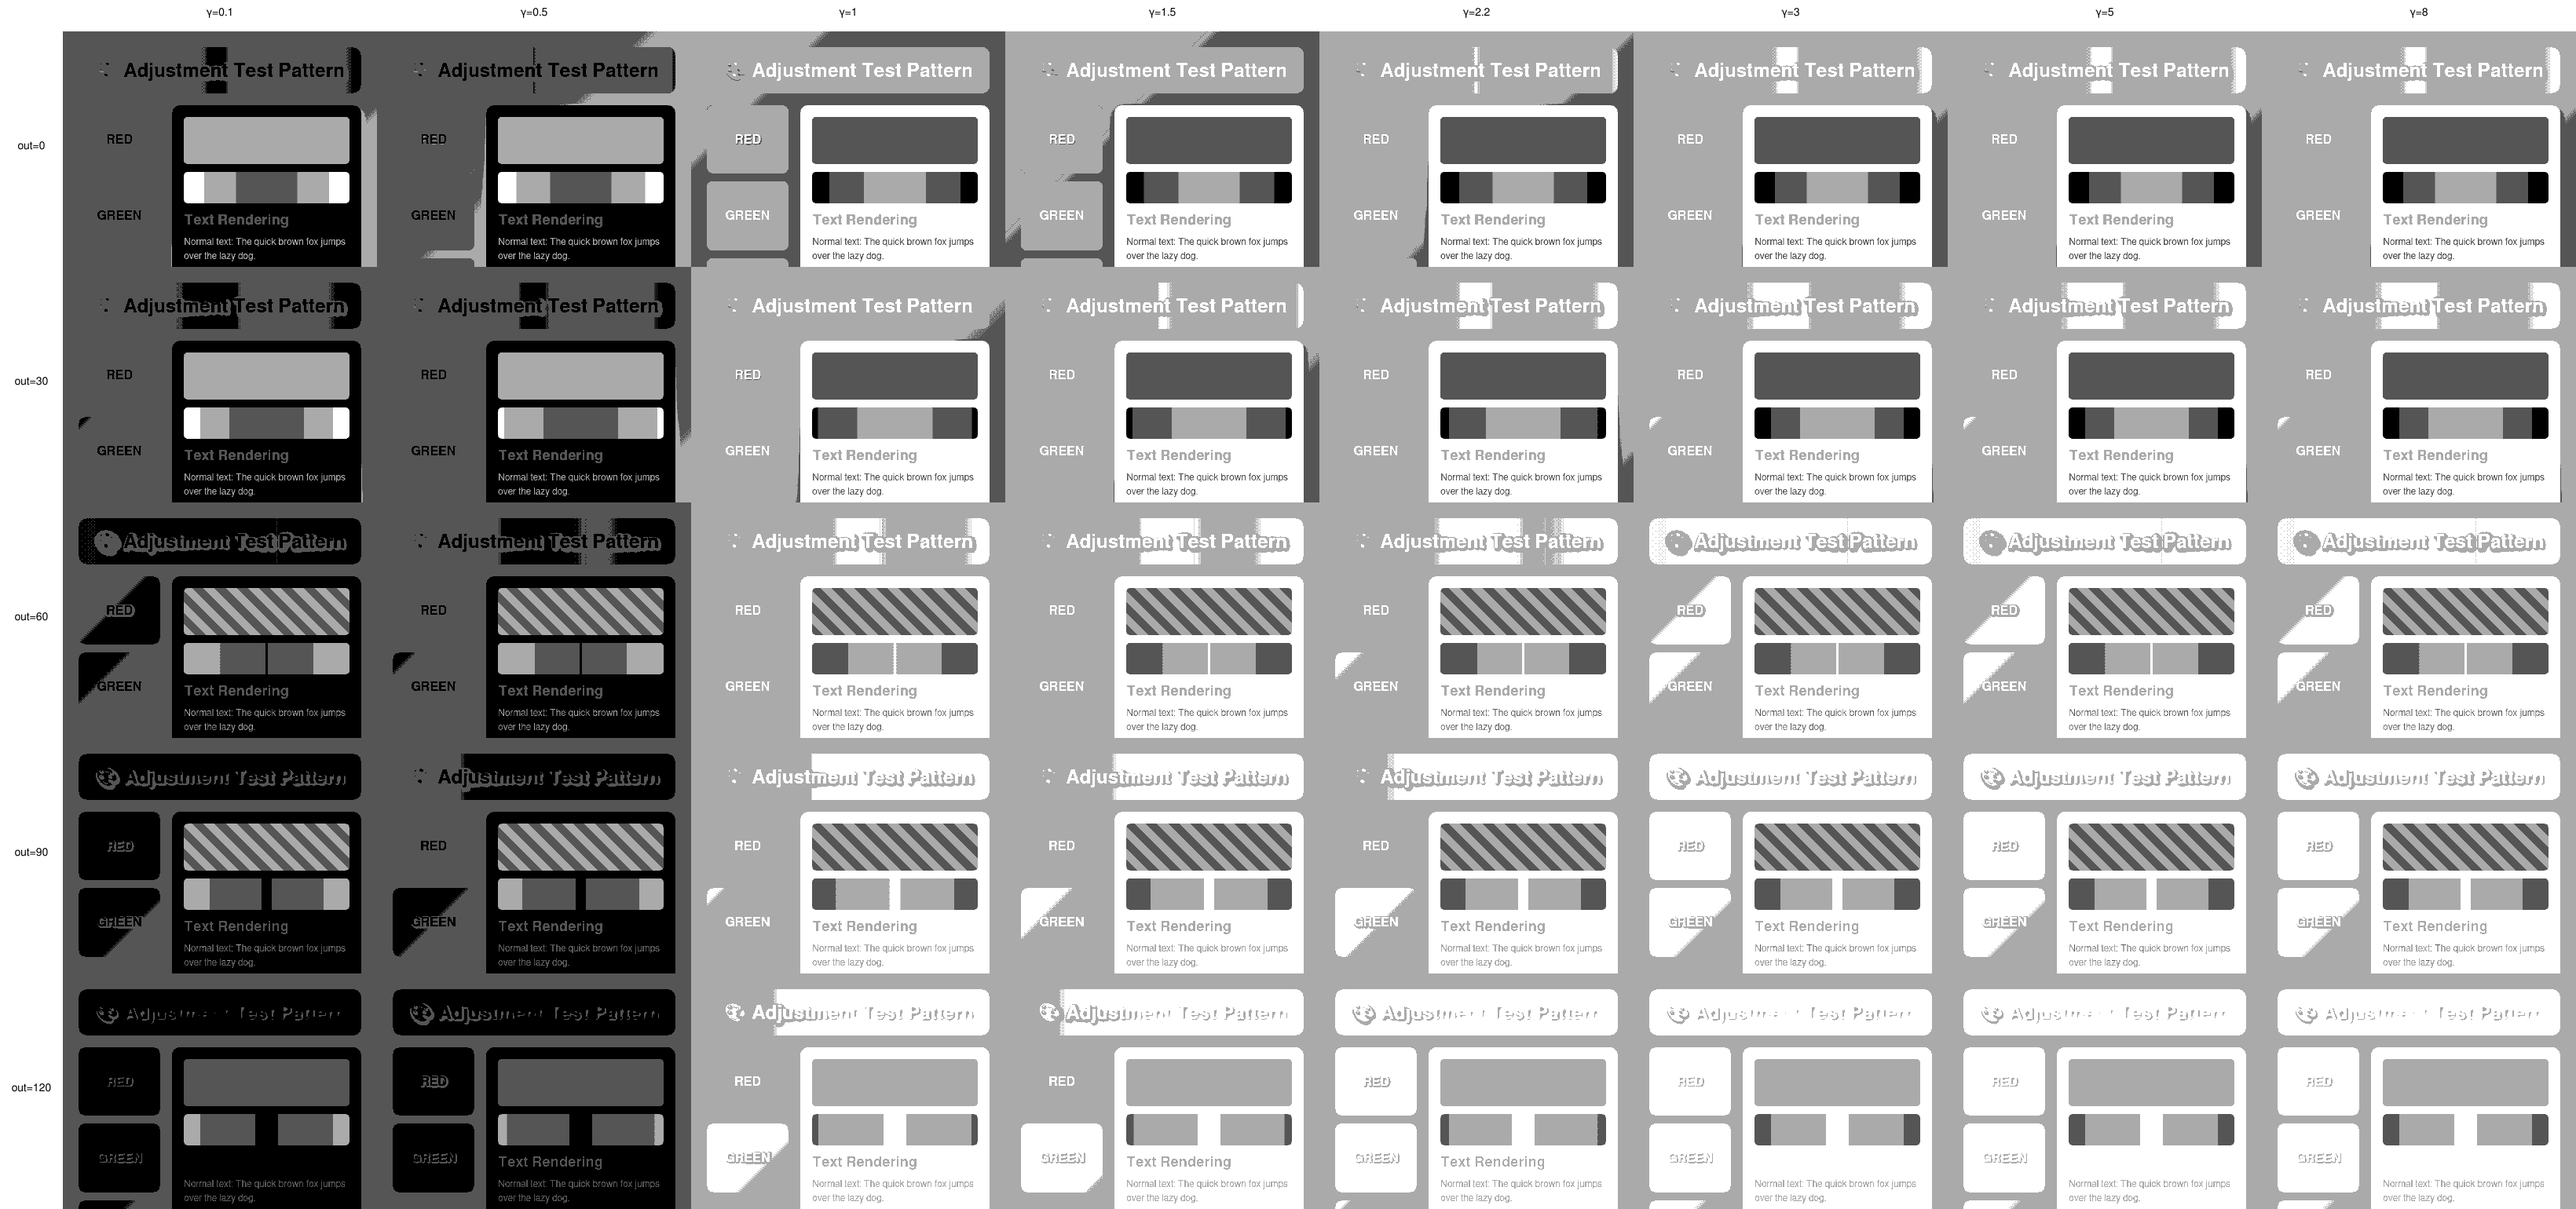
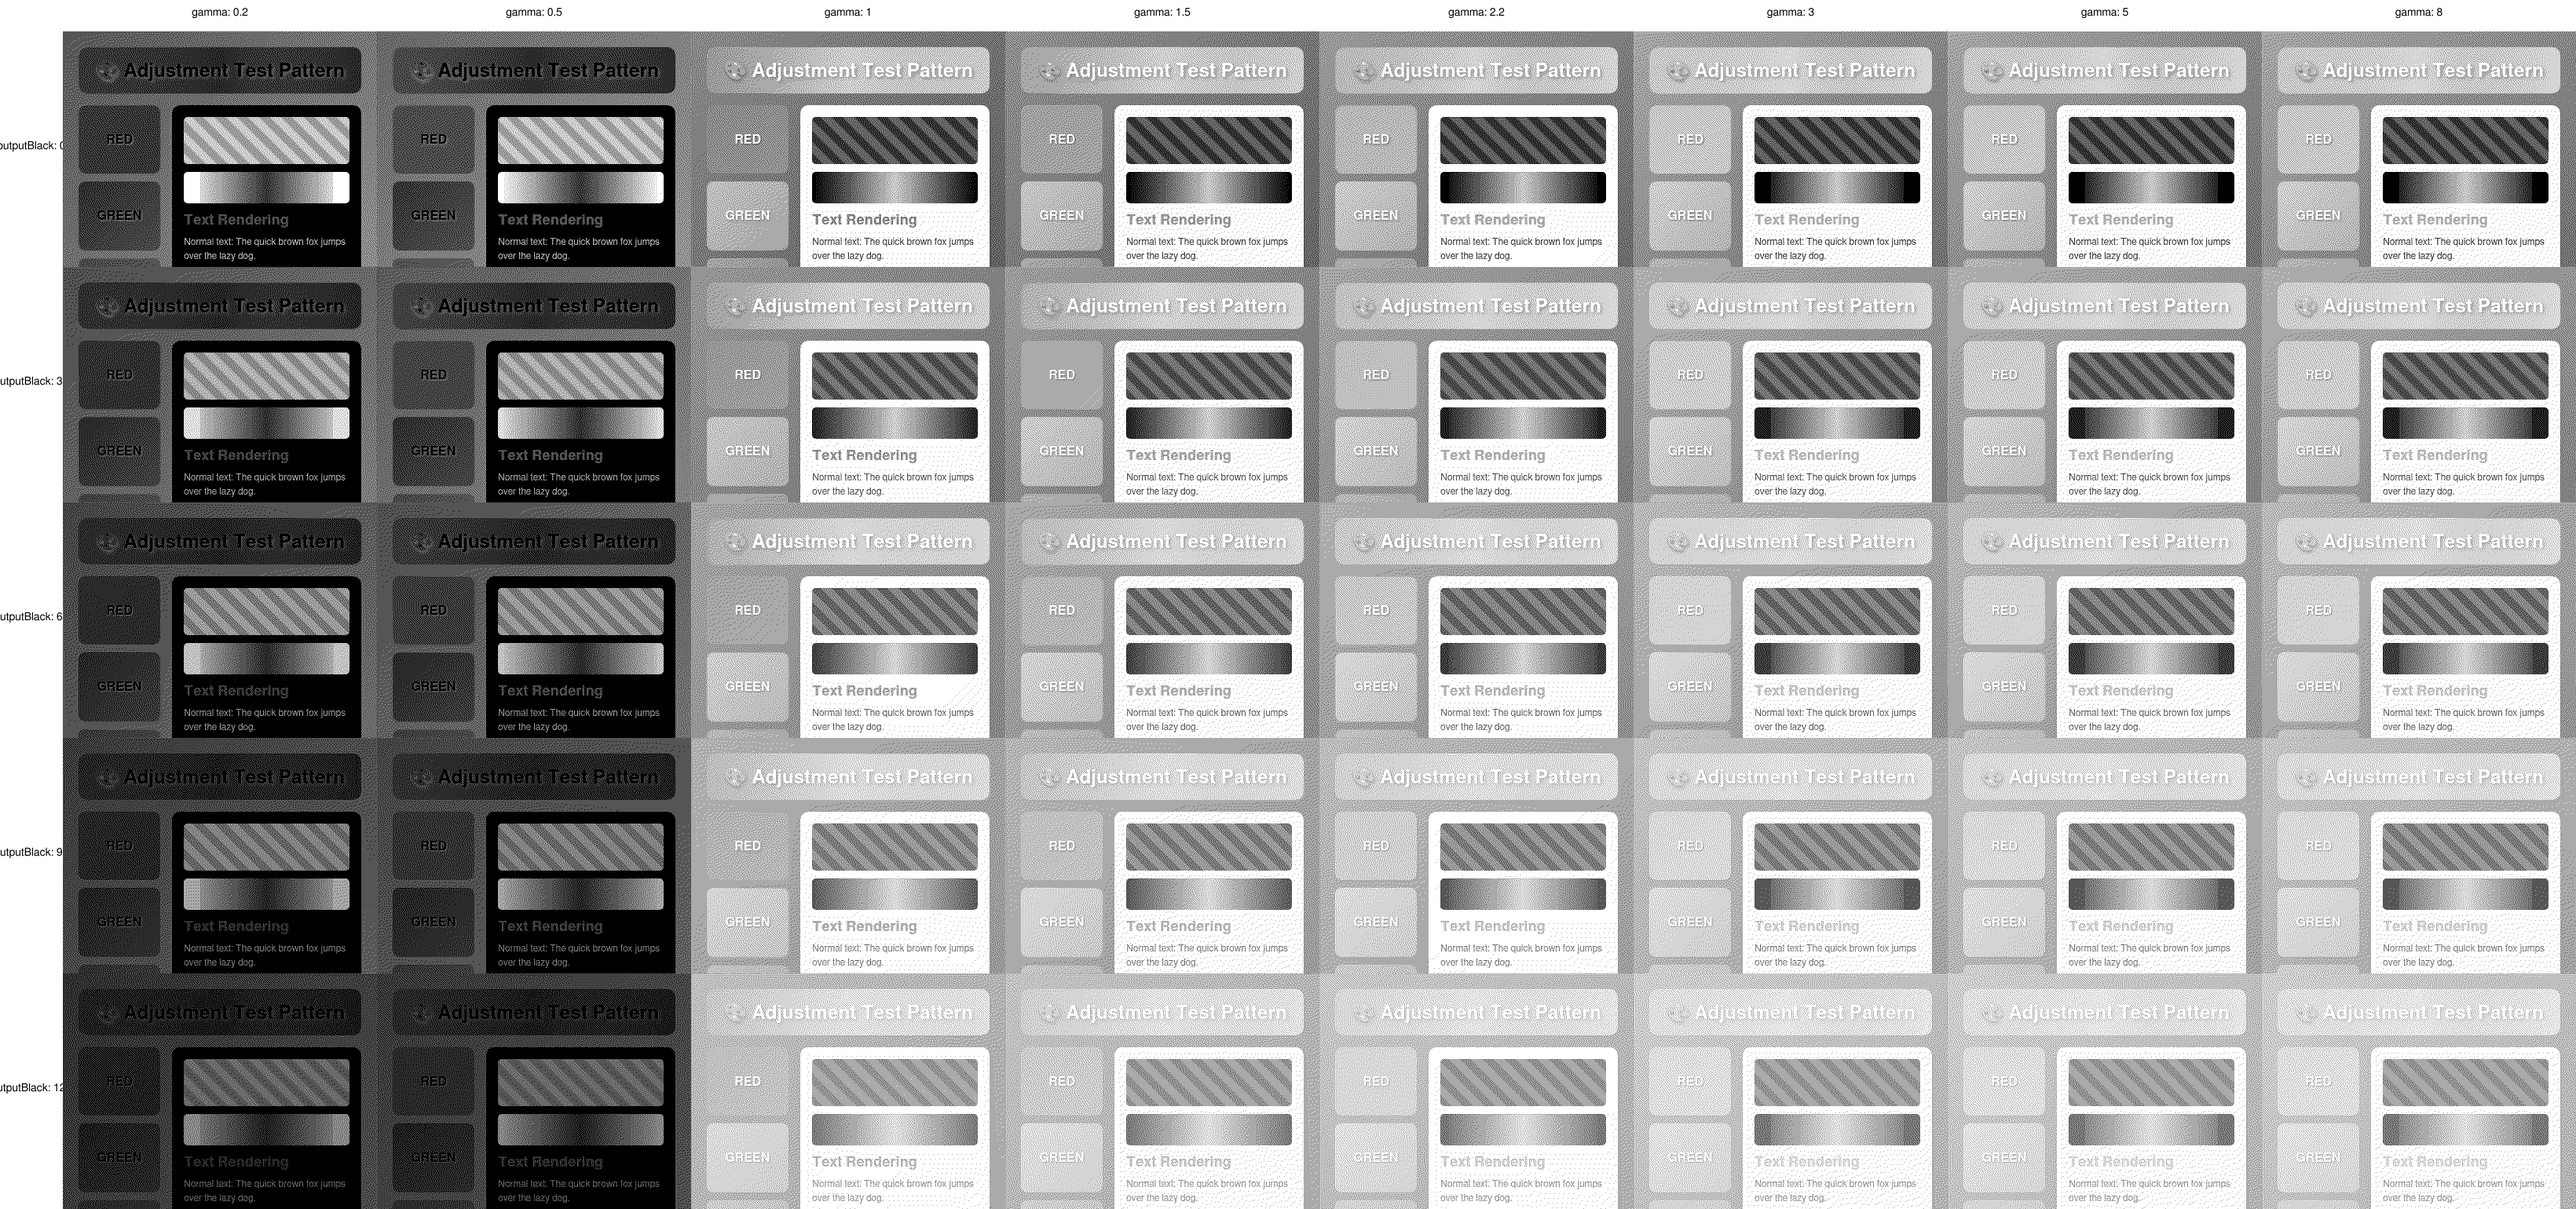
Refine levels adjustment matrix generation
- Updated gamma distribution from [0.1, 0.5, ...] to [0.2, 0.5, ...] for better visual distinction
- Added dithering to grayscale matrices for e-ink simulation
- Updated matrix labels to use proper JSON field names (gamma, outputBlack, inputWhite, inputBlack)
- Removed input range matrices (not adding value to documentation)
- Regenerated gamma × outputBlack matrices with improvements
- Updated IMAGE-ADJUSTMENTS.md to reflect changes

Changed region(s): [[0.0, 0.0, 1.0, 1.0]]

diff --git a/calendar2image/tests/matrix/adjustment-levels-matrix.test.js b/calendar2image/tests/matrix/adjustment-levels-matrix.test.js
@@ -4,8 +4,6 @@
  * Generates visual comparison matrices specifically for the levels adjustment feature:
  * - Gamma vs Output Black matrix (grayscale 2-bit e-ink simulation)
  * - Gamma vs Output Black matrix (color 8-bit)
- * - Input Range matrix (grayscale 2-bit)
- * - Input Range matrix (color 8-bit)
  */
 
 const { generateImage } = require('../../src/image');
@@ -42,6 +40,16 @@ async function generateLevelsImage(levelsConfig, imageConfig) {
     extraData: {}
   });
   
+  // Build adjustments object
+  const adjustments = {
+    levels: levelsConfig
+  };
+  
+  // Add dithering for grayscale matrices
+  if (imageConfig.grayscale) {
+    adjustments.dither = true;
+  }
+  
   // Generate image with levels adjustment
   const result = await generateImage(html, {
     width: config.width,
@@ -49,9 +57,7 @@ async function generateLevelsImage(levelsConfig, imageConfig) {
     imageType: config.format,
     grayscale: config.grayscale,
     bitDepth: config.bitDepth,
-    adjustments: {
-      levels: levelsConfig
-    }
+    adjustments
   });
   
   return result.buffer;
@@ -82,7 +88,7 @@ async function createLabelImage(text, width, height) {
 async function generateGammaOutputMatrix(imageConfig, matrixName) {
   console.log(`\n📊 Generating ${matrixName} matrix...`);
   
-  const gammaValues = [0.1, 0.5, 1.0, 1.5, 2.2, 3.0, 5.0, 8.0];
+  const gammaValues = [0.2, 0.5, 1.0, 1.5, 2.2, 3.0, 5.0, 8.0];
   const outputBlackValues = [0, 30, 60, 90, 120];
   
   const cellWidth = BASE_CONFIG.width;
@@ -99,7 +105,7 @@ async function generateGammaOutputMatrix(imageConfig, matrixName) {
   // Add column headers (gamma values)
   for (let col = 0; col < gammaValues.length; col++) {
     const gamma = gammaValues[col];
-    const label = await createLabelImage(`γ=${gamma}`, cellWidth, labelHeight);
+    const label = await createLabelImage(`gamma: ${gamma}`, cellWidth, labelHeight);
     compositeOps.push({
       input: label,
       top: 0,
@@ -110,7 +116,7 @@ async function generateGammaOutputMatrix(imageConfig, matrixName) {
   // Add row headers (output black values)
   for (let row = 0; row < outputBlackValues.length; row++) {
     const outputBlack = outputBlackValues[row];
-    const label = await createLabelImage(`out=${outputBlack}`, labelWidth, cellHeight);
+    const label = await createLabelImage(`outputBlack: ${outputBlack}`, labelWidth, cellHeight);
     compositeOps.push({
       input: label,
       top: labelHeight + (row * cellHeight),
@@ -135,97 +141,6 @@ async function generateGammaOutputMatrix(imageConfig, matrixName) {
         inputWhite: 255,
         gamma: gamma,
         outputBlack: outputBlack,
-        outputWhite: 255
-      }, imageConfig);
-      
-      compositeOps.push({
-        input: imageBuffer,
-        top: labelHeight + (row * cellHeight),
-        left: labelWidth + (col * cellWidth)
-      });
-    }
-  }
-  
-  // Create base white image
-  const matrix = await sharp({
-    create: {
-      width: totalWidth,
-      height: totalHeight,
-      channels: 3,
-      background: { r: 255, g: 255, b: 255 }
-    }
-  })
-  .composite(compositeOps)
-  .png()
-  .toBuffer();
-  
-  // Save matrix
-  const outputPath = path.join(MATRIX_OUTPUT_DIR, `${matrixName}.png`);
-  await fs.writeFile(outputPath, matrix);
-  console.log(`✅ Saved: ${outputPath}`);
-  
-  return outputPath;
-}
-
-/**
- * Generate input range matrix
- */
-async function generateInputRangeMatrix(imageConfig, matrixName) {
-  console.log(`\n📊 Generating ${matrixName} matrix...`);
-  
-  const inputWhiteValues = [128, 160, 192, 224, 255];
-  const inputBlackValues = [0, 32, 64, 96, 128];
-  
-  const cellWidth = BASE_CONFIG.width;
-  const cellHeight = BASE_CONFIG.height;
-  const labelWidth = 80;
-  const labelHeight = 40;
-  
-  const totalWidth = labelWidth + (cellWidth * inputWhiteValues.length);
-  const totalHeight = labelHeight + (cellHeight * inputBlackValues.length);
-  
-  // Create composite image
-  const compositeOps = [];
-  
-  // Add column headers (input white values)
-  for (let col = 0; col < inputWhiteValues.length; col++) {
-    const inputWhite = inputWhiteValues[col];
-    const label = await createLabelImage(`in↑=${inputWhite}`, cellWidth, labelHeight);
-    compositeOps.push({
-      input: label,
-      top: 0,
-      left: labelWidth + (col * cellWidth)
-    });
-  }
-  
-  // Add row headers (input black values)
-  for (let row = 0; row < inputBlackValues.length; row++) {
-    const inputBlack = inputBlackValues[row];
-    const label = await createLabelImage(`in↓=${inputBlack}`, labelWidth, cellHeight);
-    compositeOps.push({
-      input: label,
-      top: labelHeight + (row * cellHeight),
-      left: 0
-    });
-  }
-  
-  // Generate all cells
-  let cellCount = 0;
-  const totalCells = inputWhiteValues.length * inputBlackValues.length;
-  
-  for (let row = 0; row < inputBlackValues.length; row++) {
-    for (let col = 0; col < inputWhiteValues.length; col++) {
-      cellCount++;
-      const inputBlack = inputBlackValues[row];
-      const inputWhite = inputWhiteValues[col];
-      
-      console.log(`  Generating cell ${cellCount}/${totalCells}: inputBlack=${inputBlack}, inputWhite=${inputWhite}`);
-      
-      const imageBuffer = await generateLevelsImage({
-        inputBlack: inputBlack,
-        inputWhite: inputWhite,
-        gamma: 1.0,
-        outputBlack: 0,
         outputWhite: 255
       }, imageConfig);
       
@@ -287,28 +202,6 @@ describe('Levels Adjustment Matrix Generation', () => {
     const outputPath = await generateGammaOutputMatrix(
       { grayscale: false, bitDepth: 8 },
       'levels-gamma-output-color-8bit'
-    );
-    
-    // Verify file exists and has reasonable size
-    const stats = await fs.stat(outputPath);
-    expect(stats.size).toBeGreaterThan(100000);
-  });
-
-  test('should generate input range matrix (grayscale 2-bit)', async () => {
-    const outputPath = await generateInputRangeMatrix(
-      { grayscale: true, bitDepth: 2 },
-      'levels-input-range-grayscale-2bit'
-    );
-    
-    // Verify file exists and has reasonable size
-    const stats = await fs.stat(outputPath);
-    expect(stats.size).toBeGreaterThan(100000);
-  });
-
-  test('should generate input range matrix (color 8-bit)', async () => {
-    const outputPath = await generateInputRangeMatrix(
-      { grayscale: false, bitDepth: 8 },
-      'levels-input-range-color-8bit'
     );
     
     // Verify file exists and has reasonable size

diff --git a/calendar2image/docs-user/IMAGE-ADJUSTMENTS.md b/calendar2image/docs-user/IMAGE-ADJUSTMENTS.md
@@ -266,25 +266,15 @@ This implementation exactly matches Paint.NET's Levels adjustment dialog:
 
 ![Paint.NET Levels Reference](https://github.com/user-attachments/assets/f3b3b494-9b57-4d90-b4d9-49277308501b)
 
-**Visual Reference - Gamma × Output Black Matrix**:
+**Visual Reference - Gamma × Output Black**:
 
-These matrices show how `gamma` and `outputBlack` parameters interact:
+These matrices show how `gamma` and `outputBlack` parameters interact to control mid-tone brightness and minimum output values:
 
 ![Levels Gamma × Output Black - Grayscale 2-bit](images/levels-gamma-output-grayscale-2bit.png)
-*E-ink simulation (2-bit grayscale) - 8 gamma values × 5 outputBlack values*
+*E-ink simulation (2-bit grayscale with dithering) - 8 gamma values × 5 outputBlack values*
 
 ![Levels Gamma × Output Black - Color 8-bit](images/levels-gamma-output-color-8bit.png)
 *Full color (8-bit) - 8 gamma values × 5 outputBlack values*
-
-**Visual Reference - Input Range Matrix**:
-
-These matrices show how `inputBlack` and `inputWhite` parameters compress/expand the input range:
-
-![Levels Input Range - Grayscale 2-bit](images/levels-input-range-grayscale-2bit.png)
-*E-ink simulation (2-bit grayscale) - 5 inputWhite values × 5 inputBlack values*
-
-![Levels Input Range - Color 8-bit](images/levels-input-range-color-8bit.png)
-*Full color (8-bit) - 5 inputWhite values × 5 inputBlack values*
 
 **Performance**: Fast (native Sharp operations)
 
